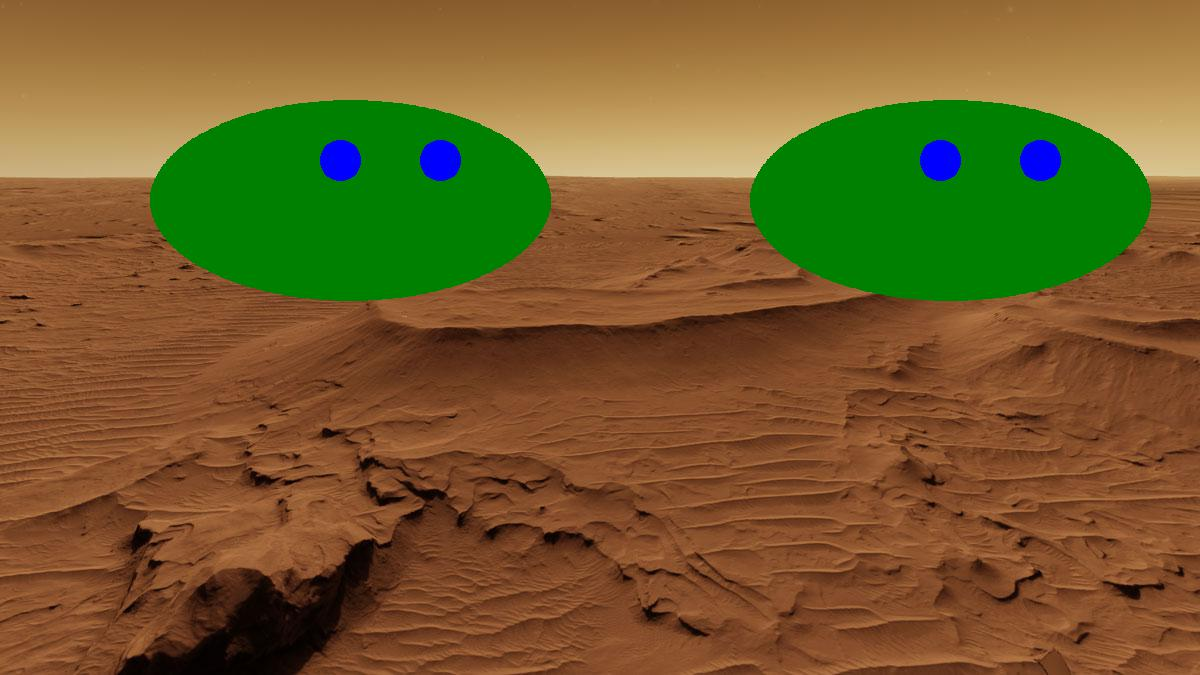
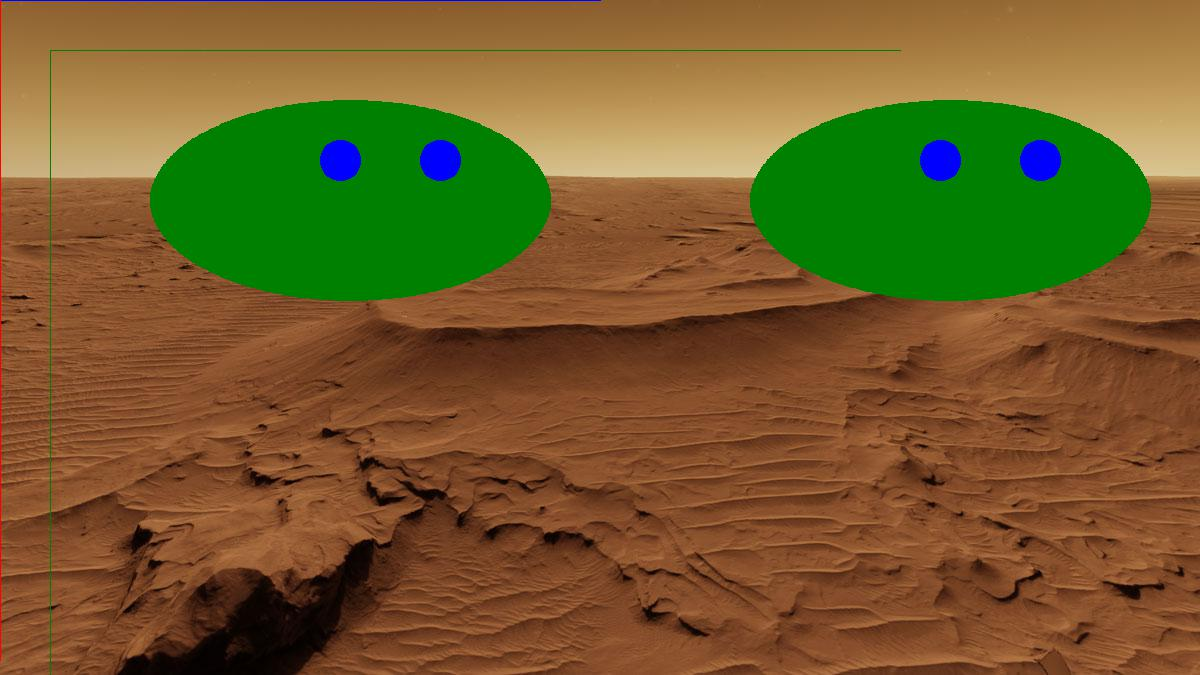
added a second alien

diff --git a/animationprogram.py b/animationprogram.py
@@ -67,9 +67,11 @@ for i in range(1,10):
     image1 = Image.open("images/mars-landscape-1-1200.jpg")
     image1.resize([iwidth,iheight], Image.LANCZOS)
     
-    #this adds draw
+    #creates the new image
     #image1 = Image.new("RGB", (iwidth, iheight), 'white')
     draw = ImageDraw.Draw(image1)
+    
+    # draws lines but cant see with background on
     draw.line([0,0,(i-1)*150,0],'blue')
     draw.line([0,0,0,(i-1)*165],'red')
   
@@ -88,7 +90,7 @@ for i in range(1,10):
     if i%10==0:
         shifteye=shifteye*-1
         shifteyeb=shifteyeb*-1    
-    #this draws the aliens
+    #this draws the first alien
     x1=x1+shift
     xe1=xe1+shifteye+shift
     xe2=xe2+shifteye+shift
@@ -96,8 +98,9 @@ for i in range(1,10):
     draw.ellipse([xe1, ye1, xe1+40, ye1+40],'blue')
     draw.ellipse([xe2, ye2, xe2+40, ye2+40],'blue')
     
-       
-
+    #TODO   
+    #this draws the second alien(b)
+    #eyes don't get shifted 
     x1b=x1b+shiftb
     xe1b=xe1b+shifteyeb+shiftb
     xe2b=xe2b+shifteyeb+shiftb
